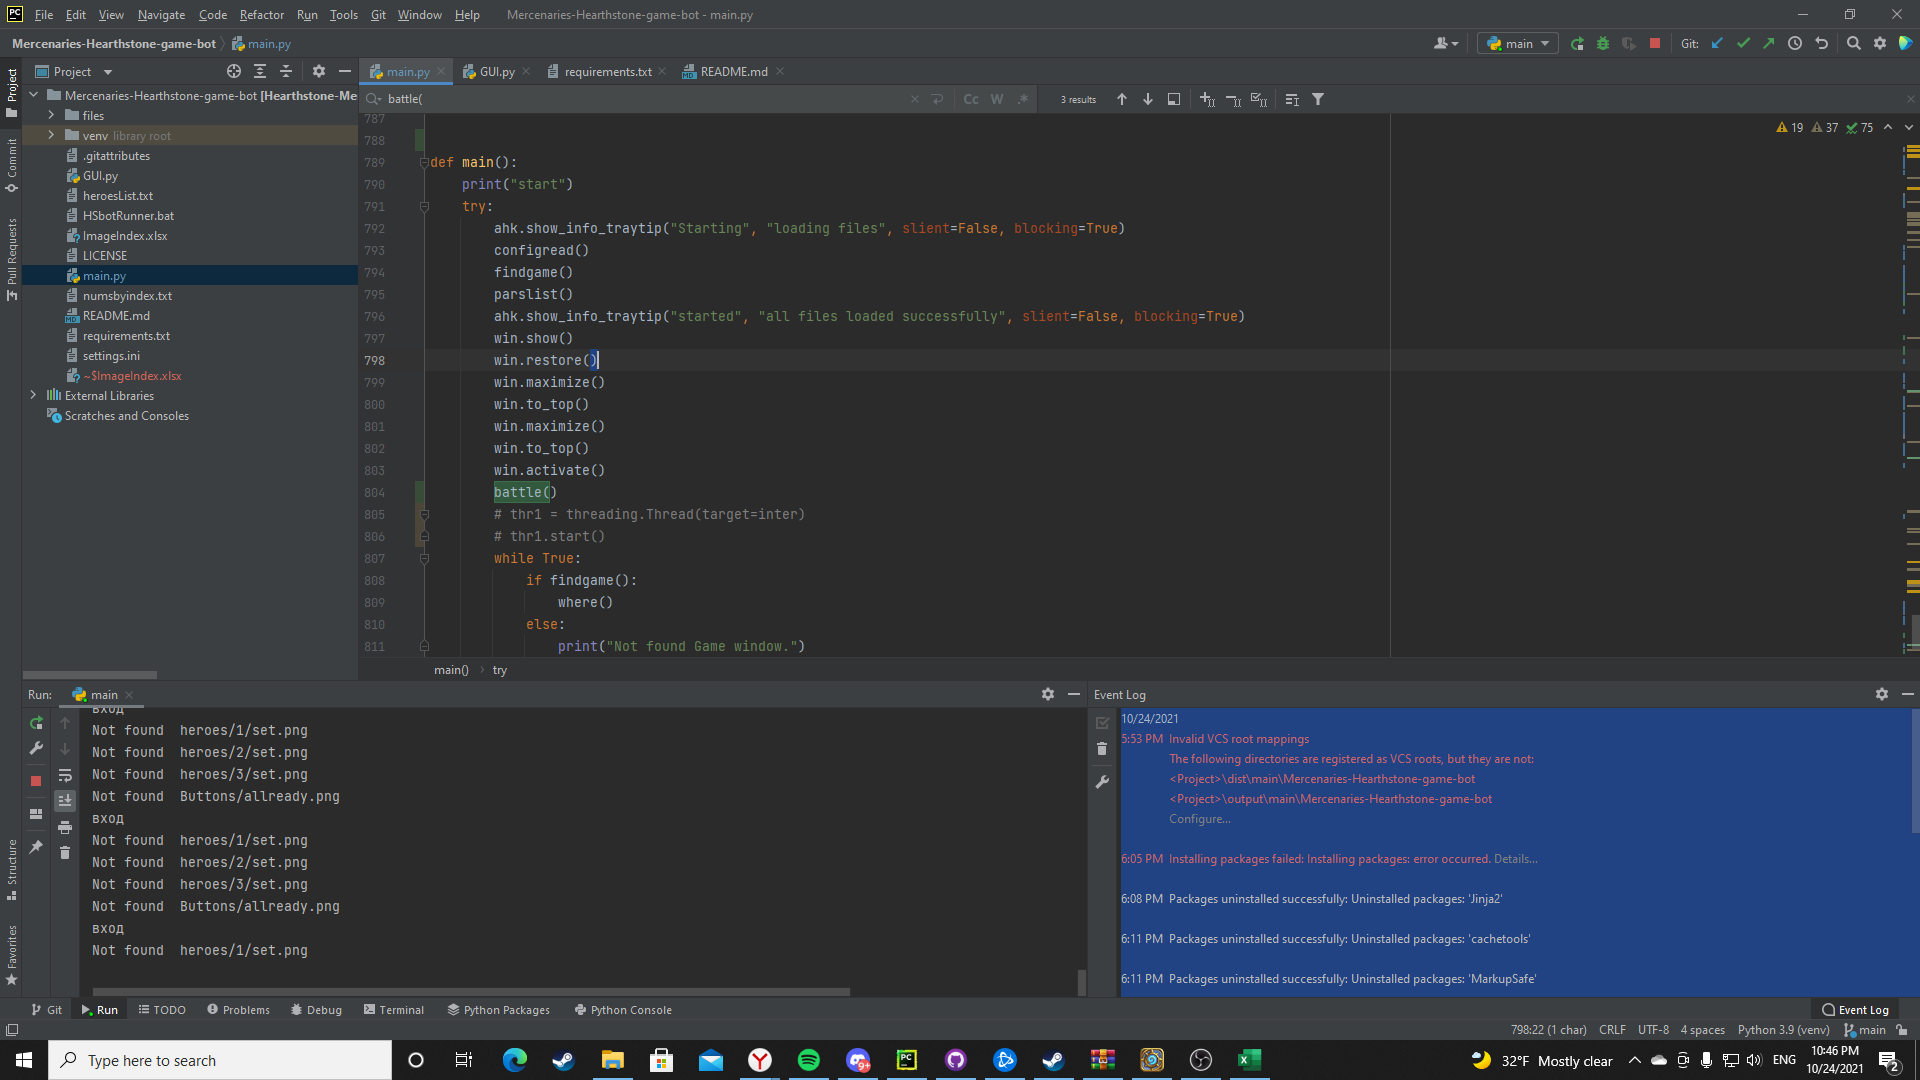
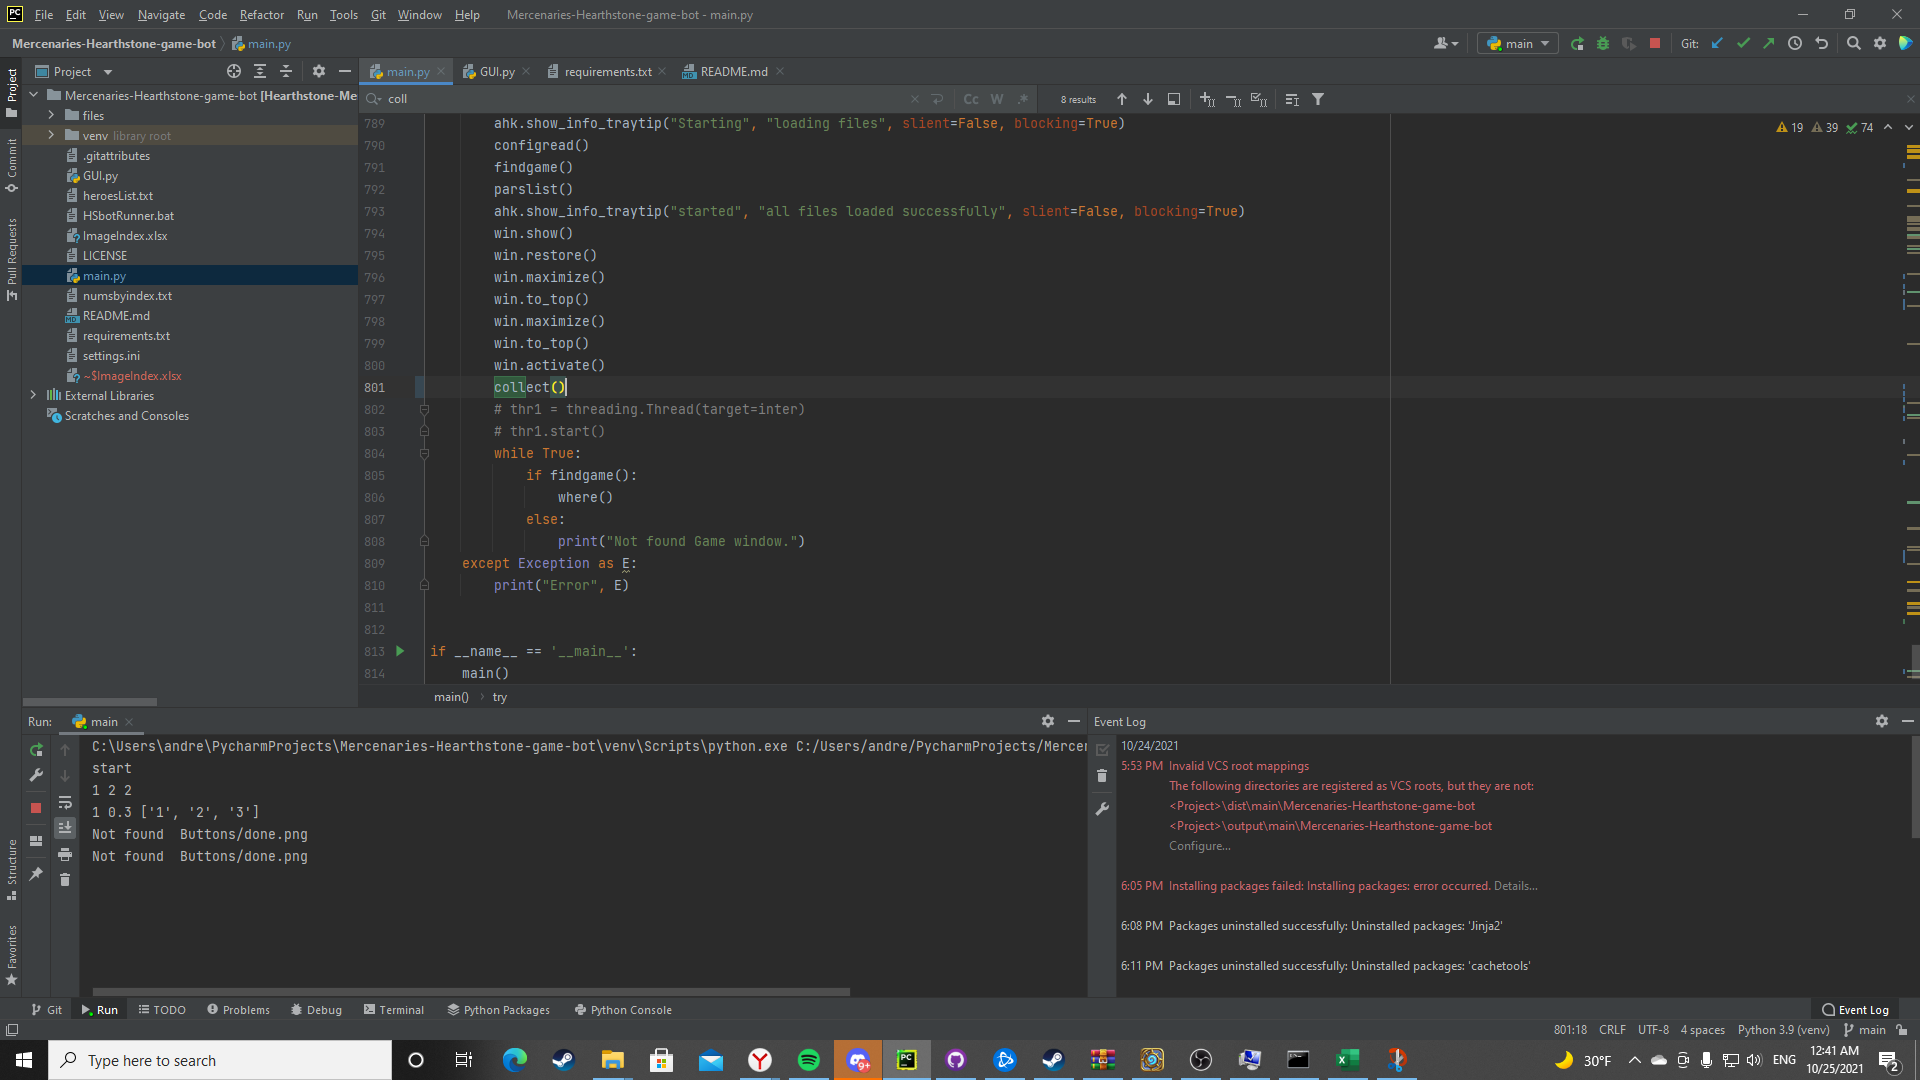
Level change fix

diff --git a/main.py b/main.py
@@ -35,7 +35,7 @@ Ui_Ellements = ['battle', 'blue', 'green', 'group', 'next', 'one', 'page_1', 'pa
 # buttons
 buttons = ['back', 'continue', 'create', 'del', 'join_button', 'num', 'ok', 'play', 'ready', 'sec', 'sta', 'start',
            'start1', 'submit', 'allready', 'startbattle', 'startbattle1', 'take', 'take1', 'yes', 'onedie', 'reveal',
-           'done', 'finishok']  # last take -17
+           'done', 'finishok', 'confirm']  # last take -17
 # chekers
 chekers = ['30lvl', 'empty_check', 'find', 'goto', 'group_find', 'level_check', 'rename', 'shab', 'drop', '301', '302',
            'taken', 'text', 'win', 'ifrename', 'levelstarted', 'nextlvlcheck']
@@ -202,7 +202,7 @@ def move(index):
 def rand(enemyred, enemygreen, enemyblue, enemynoclass):
     count = 0
     while True:
-        a = random.randint(0, 3)
+        a = random.randint(0, 2)
         if a == 0:
             if not move(enemygreen):
                 break
@@ -218,12 +218,7 @@ def rand(enemyred, enemygreen, enemyblue, enemynoclass):
                 break
             else:
                 count += 1
-        if a == 3:
-            if not move(enemynoclass):
-                break
-            else:
-                count += 1
-        if count > 3:
+        if count > 5:
             x = int(win.rect[2] / 2)
             y = int(win.rect[2] / 6)
             ahk.mouse_drag(x, y, speed=3, relative=False)
@@ -231,19 +226,8 @@ def rand(enemyred, enemygreen, enemyblue, enemynoclass):
             break
 
 
-def backtomenu():
-    time.sleep(1)
-    while True:
-        if find_ellement(buttons[23], 14):
-            for i in range(2):
-                time.sleep(1)
-                find_ellement(buttons[0], 0)
-            break
-    where()
-
-
-
 def collect():
+    flag = False
     while True:
         if not find_ellement(buttons[22], 14):
             ahk.mouse_move(win.rect[2] / 2.5, win.rect[3] / 3.5, speed=3)
@@ -256,7 +240,15 @@ def collect():
             ahk.click()
             time.sleep(1)
         else:
-            backtomenu()
+            while True:
+                if find_ellement(buttons[23], 14):
+                    for i in range(2):
+                        time.sleep(0.5)
+                        find_ellement(buttons[0], 0)
+                        flag = True
+                    break
+        if flag == True:
+            break
 
 
 def nextlvl():
@@ -376,7 +368,8 @@ def atack(i, enemyred, enemygreen, enemyblue, enemynoclass, mol):
         abilicks('Red')
         if move(enemygreen):
             if move(mol):
-                rand(enemyred, enemygreen, enemyblue, enemynoclass)
+                if move(enemynoclass):
+                    rand(enemyred, enemygreen, enemyblue, enemynoclass)
     if i[0] == 'Green':
         ahk.mouse_move(x, y, speed=3)
         ahk.click()
@@ -385,7 +378,8 @@ def atack(i, enemyred, enemygreen, enemyblue, enemynoclass, mol):
         abilicks('Green')
         if move(enemyblue):
             if move(mol):
-                rand(enemyred, enemygreen, enemyblue, enemynoclass)
+                if move(enemynoclass):
+                    rand(enemyred, enemygreen, enemyblue, enemynoclass)
     if i[0] == 'Blue':
         ahk.mouse_move(x, y, speed=3)
         ahk.click()
@@ -394,7 +388,8 @@ def atack(i, enemyred, enemygreen, enemyblue, enemynoclass, mol):
         abilicks('Blue')
         if move(enemyred):
             if move(mol):
-                rand(enemyred, enemygreen, enemyblue, enemynoclass)
+                if move(enemynoclass):
+                    rand(enemyred, enemygreen, enemyblue, enemynoclass)
 
 
 def battle():
@@ -404,12 +399,12 @@ def battle():
     global speed
     raund = 1
     while True:
+        ahk.mouse_move(win.rect[2] / 2, win.rect[3] - win.rect[3] / 4.6, speed=3)
         speed = 0
-        time.sleep(1)
         sens = 0.85
         find_ellement(buttons[20], 14)
         if find_ellement(chekers[13], 1):
-            ahk.mouse_move(win.rect[2] / 2, win.rect[3] - win.rect[3] / 4.8, speed=3)
+            ahk.mouse_move(win.rect[2] / 2, win.rect[3] - win.rect[3] / 4.6, speed=3)
             while True:
                 if not find_ellement(Ui_Ellements[18], 1):
                     ahk.click()
@@ -422,7 +417,7 @@ def battle():
             print(win.rect)
             herobattlefin.clear()
             tmp = int(win.rect[3] / 2)
-            ahk.mouse_move(win.rect[2] / 2, win.rect[3] - win.rect[3] / 4.8, speed=3)
+            ahk.mouse_move(win.rect[2] / 2, win.rect[3] - win.rect[3] / 4.6, speed=3)
             ahk.click()
             tmp = int(win.rect[3] / 2)
             partscreen(2560, tmp, 0, 0)
@@ -456,7 +451,6 @@ def battle():
             sens = 0.75
             speed = temp
             i = 0
-            ahk.mouse_move(win.rect[2] / 2, win.rect[3] - win.rect[3] / 4.8, speed=3)
             while True:
                 if not find_ellement(buttons[14], 2):
                     break
@@ -488,7 +482,7 @@ def seth():
         sens = 0.75
         ahk.mouse_position = (x, y)
         for n in range(3):
-            if i >= 12:
+            if i >= 7:
                 ahk.mouse_drag(x, y - 600, speed=3, relative=False)
             if find_ellement(hero[n] + '/set.png', 6):
                 time.sleep(0.2)
@@ -625,18 +619,19 @@ def group_create():
             if find_ellement(chekers[0], 1) == True:
                 find_ellement(buttons[8], 0)
                 find_ellement(buttons[8], 0)
-                time.sleep(0.5)
-                find_ellement(chekers[3], 0)
-                time.sleep(0.5)
-                find_ellement(buttons[3], 0)
-                time.sleep(0.5)
-                find_ellement(buttons[6], 0)
-                group_create()
+                while True:
+                    time.sleep(0.2)
+                    if find_ellement(chekers[3], 1):
+                        time.sleep(0.5)
+                        if find_ellement(buttons[3], 14):
+                            time.sleep(0.5)
+                            find_ellement(buttons[24], 14)
+                            group_create()
             else:
                 find_ellement(buttons[8], 0)
                 time.sleep(1)
                 find_ellement(buttons[8], 0)
-                ahk.mouse_move(100, 100, speed=3)
+                ahk.mouse_move(1000, 1000, speed=3)
                 find_ellement(buttons[0], 0)
                 battlego()
 
@@ -728,6 +723,8 @@ def find_ellement(file, index):
         if file == buttons[5]:
             ahk.mouse_move(x, y, speed=5)
             return True
+        if file == chekers[3]:
+            ahk.mouse_move(x, y, speed=5)
         if index == 1:
             return True
         if index == 7:
@@ -801,7 +798,7 @@ def main():
         win.maximize()
         win.to_top()
         win.activate()
-        battle()
+        collect()
         # thr1 = threading.Thread(target=inter)
         # thr1.start()
         while True:
